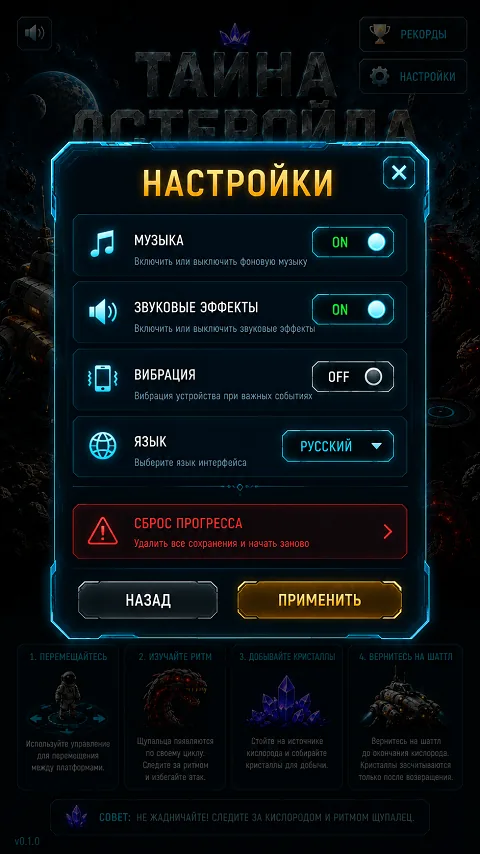
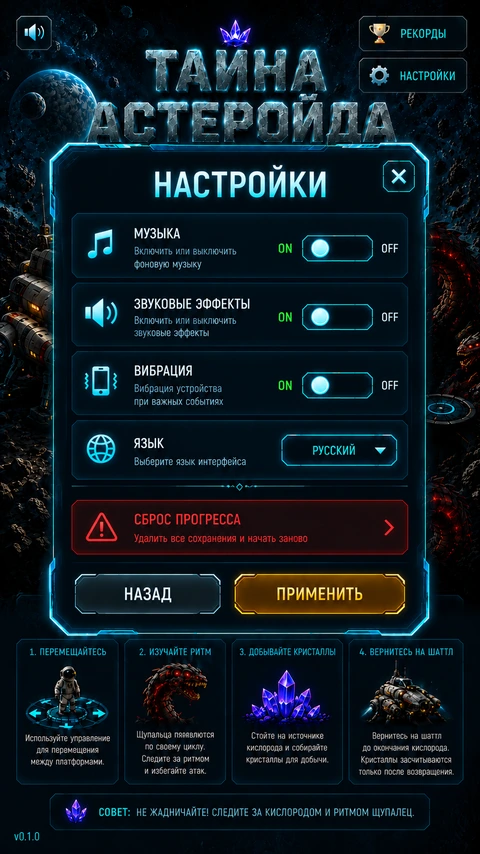
Новый макет экрана настроек: трек и подписи ON/OFF запечены в фон, JS двигает только кружок-ползунок (было: перекраска всей пилюли + текст динамически)

diff --git a/js/ui_manager.js b/js/ui_manager.js
@@ -194,7 +194,22 @@ const UIManager = (() => {
     ctx.restore();
   }
 
-  // Живые тумблеры поверх родных пилюль макета (16.07.2026)
+  // Живые ползунки поверх трека нового макета (seting.png, 08.09.2026).
+  // Трек и подписи ON/OFF запечены в фон — JS двигает только сам кружок-ползунок.
+  // Координаты вымерены по вставленному макету (480×854):
+  const TOGGLE_TRACK = { xLeft: 302, xRight: 372, onX: 320, offX: 354, r: 8 };
+  const TOGGLE_ANIM_DURATION = 0.18;
+
+  function _toggleKnobX(id, on) {
+    const targetX = on ? TOGGLE_TRACK.onX : TOGGLE_TRACK.offX;
+    if (_toggleAnim && _toggleAnim.id === id && _toggleAnim.t > 0) {
+      const fromX = _toggleAnim.fromOn ? TOGGLE_TRACK.onX : TOGGLE_TRACK.offX;
+      const p = 1 - (_toggleAnim.t / TOGGLE_ANIM_DURATION); // 0..1, ease пока линейный
+      return fromX + (targetX - fromX) * p;
+    }
+    return targetX;
+  }
+
   function _drawSettingsExtras(ctx, dt) {
     if (_resetArm > 0) _resetArm = Math.max(0, _resetArm - (dt || 0));
     if (_toggleAnim) {
@@ -202,44 +217,26 @@ const UIManager = (() => {
       if (_toggleAnim.t <= 0) _toggleAnim = null;
     }
     const rows = [
-      [237, 'music', AudioFX.getMusic()],
-      [304, 'sfx',   AudioFX.getSfx()],
-      [374, 'vibro', AudioFX.getVibro()],
+      [244, 'music', AudioFX.getMusic()],
+      [311, 'sfx',   AudioFX.getSfx()],
+      [380, 'vibro', AudioFX.getVibro()],
     ];
     ctx.save();
     for (const [cy, id, on] of rows) {
-      // закрасить вшитую пилюлю фоном строки
-      ctx.fillStyle = '#0c1a26';
-      ctx.beginPath(); ctx.roundRect(342, cy - 20, 118, 40, 8); ctx.fill();
+      // Закрасить ТОЛЬКО внутреннюю часть трека (между рамками) фоновым тёмным
+      // цветом — стирает запечённый в макете дефолтный кружок, саму рамку
+      // трека и подписи ON/OFF не трогаем, они остаются частью картинки.
+      ctx.fillStyle = '#000c14';
+      ctx.beginPath();
+      ctx.roundRect(TOGGLE_TRACK.xLeft + 3, cy - 10, (TOGGLE_TRACK.xRight - TOGGLE_TRACK.xLeft) - 6, 20, 10);
+      ctx.fill();
 
-      // Эффект нажатия: пилюля сжимается к своему центру + голубое свечение
-      // (тот же язык, что у D-pad: scale ~88%, shadowBlur, без грубой рамки на всю строку)
-      const pressed = _toggleAnim && _toggleAnim.id === id;
-      const pt = pressed ? Math.max(0, _toggleAnim.t) : 0;
-      const pa = pt / 0.18; // 0..1, доля анимации, ещё оставшаяся
-      const scale = pressed ? (1 - 0.12 * pa) : 1;
-
-      const pw = 88, ph = 32, px = 352, py = cy - ph / 2;
-      const ccx = px + pw / 2, ccy = py + ph / 2;
-
+      const kx = _toggleKnobX(id, on);
       ctx.save();
-      if (pressed) {
-        ctx.translate(ccx, ccy);
-        ctx.scale(scale, scale);
-        ctx.translate(-ccx, -ccy);
-        ctx.shadowColor = 'rgba(0,212,255,0.95)';
-        ctx.shadowBlur = 14 * pa;
-      }
-      // пилюля по фактическому состоянию
-      ctx.fillStyle = on ? 'rgba(0,214,98,0.9)' : 'rgba(110,110,110,0.7)';
-      ctx.beginPath(); ctx.roundRect(px, py, pw, ph, ph / 2); ctx.fill();
-      ctx.shadowBlur = 0;
-      ctx.fillStyle = '#fff';
-      ctx.beginPath(); ctx.arc(on ? px + pw - ph / 2 : px + ph / 2, py + ph / 2, ph / 2 - 3, 0, Math.PI * 2); ctx.fill();
-      ctx.font = 'bold 13px sans-serif';
-      ctx.textAlign = 'center'; ctx.textBaseline = 'middle';
-      ctx.fillStyle = on ? '#04371c' : '#e8e8e8';
-      ctx.fillText(on ? 'ON' : 'OFF', on ? px + (pw - ph) / 2 : px + ph + (pw - ph) / 2 - 14, py + ph / 2 + 1);
+      ctx.shadowColor = 'rgba(80,220,255,0.95)';
+      ctx.shadowBlur = 9;
+      ctx.fillStyle = '#eafcff';
+      ctx.beginPath(); ctx.arc(kx, cy, TOGGLE_TRACK.r, 0, Math.PI * 2); ctx.fill();
       ctx.restore();
     }
     // индикатор подтверждения сброса
@@ -279,9 +276,13 @@ const UIManager = (() => {
       if (x >= b.x && x <= b.x + b.w && y >= b.y && y <= b.y + b.h) {
         const isToggle = (b.id === 'music' || b.id === 'sfx' || b.id === 'vibro');
         if (isToggle) {
-          // Тумблеры получают собственный точечный эффект (см. _drawSettingsExtras),
-          // а не грубую неоновую рамку на всю строку
-          _toggleAnim = { id: b.id, t: 0.18 };
+          // Тумблеры получают собственную анимацию скольжения ползунка
+          // (см. _drawSettingsExtras) — запоминаем состояние ДО переключения,
+          // чтобы кружок плавно проехал из старой позиции в новую.
+          const fromOn = b.id === 'music' ? AudioFX.getMusic()
+                       : b.id === 'sfx'   ? AudioFX.getSfx()
+                       : AudioFX.getVibro();
+          _toggleAnim = { id: b.id, fromOn, t: TOGGLE_ANIM_DURATION };
           AudioFX.play('tap');
         } else if (b.w < 480) {
           _flash = { x: b.x, y: b.y, w: b.w, h: b.h, t: 0.25 }; AudioFX.play('tap');
